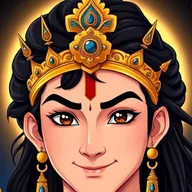
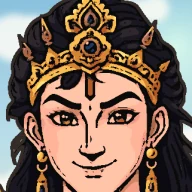
Comic-inked portraits on painted skies, comic ink layer, no navy
- Character portraits redrawn in a comic style: cel-shaded flat colour and
  ink lines, cut out with an anime segmentation model and set against a
  hand-painted summer sky with clouds instead of the dark navy backdrop.
  Face crops regenerated to match.
- Comic ink layer across the interface: inked outlines and hard offset
  shadows on panels, buttons, tiles, tokens and sheets, halftone dot
  texture, tilted caption headings, and comic lettering for titles, turn
  lines and big buttons.
- Brighter, softer character and Divine cities colours; navy removed from
  the Leela card, headers and accents.

Claude-Session: https://claude.ai/code/session_01EuwEC6CX5AQVUSZorQLXW2

diff --git a/css/style.css b/css/style.css
@@ -24,7 +24,9 @@
   --river: #4F9FC4;
   --river-soft: #D6ECF6;
   --clay: #C8573C;
-  --night: #2C3A6B;
+  --night: #4D9DE0;
+  --outline: #2E2A26;
+  --dots: radial-gradient(rgba(46, 42, 38, .13) 1.1px, transparent 1.5px);
   --gold: #E9B949;
   --display: 'Yatra One', 'Georgia', serif;
   --body: 'Baloo 2', 'Nunito', 'Segoe UI', system-ui, sans-serif;
@@ -342,7 +344,7 @@ input:focus { outline: none; border-color: var(--river); box-shadow: 0 0 0 4px r
 .lobby-title { font-family: var(--display); font-weight: 400; color: var(--ink); font-size: 2.2rem; margin: .25em 0 .1em; }
 .room { display: flex; align-items: center; gap: 10px 12px; flex-wrap: wrap; margin: 8px 0; padding: 10px 14px; border-radius: 18px; background: var(--river-soft); }
 .room > span { font-weight: 700; color: var(--ink-soft); }
-.room strong { font-family: var(--display); font-size: 1.9rem; color: var(--night); letter-spacing: .16em; font-weight: 400; }
+.room strong { font-family: var(--display); font-size: 1.9rem; color: var(--ink); letter-spacing: .16em; font-weight: 400; }
 .status-line { color: var(--ink-soft); margin: .4em 0 0; font-weight: 600; }
 .seats { list-style: none; padding: 0; margin: 0 0 18px; display: grid; gap: 12px; }
 .seat {
@@ -548,7 +550,7 @@ input:focus { outline: none; border-color: var(--river); box-shadow: 0 0 0 4px r
 .tile .pr { font-size: .92em; color: var(--ink-soft); font-variant-numeric: tabular-nums; font-weight: 600; }
 .tile .ico { width: 2.6em; height: 2.6em; color: var(--ink-soft); flex: none; }
 .tile.leela { background: #F1F4FF; }
-.tile.leela .ico { color: #4A5DC0; }
+.tile.leela .ico { color: #5B7FD6; }
 .tile.ashirvad { background: #FFF1F5; }
 .tile.ashirvad .ico { color: #C8467A; }
 .tile.tax .ico { color: var(--clay); }
@@ -596,7 +598,7 @@ input:focus { outline: none; border-color: var(--river); box-shadow: 0 0 0 4px r
 .tile.corner.rest { background: linear-gradient(160deg, #FFFBEA, #F7E6B5); }
 .tile.corner.rest .ico { color: #B8892E; }
 .tile.corner.dice { background: linear-gradient(160deg, #F1F4FF, #D9DFF7); }
-.tile.corner.dice .ico { color: #4A5DC0; }
+.tile.corner.dice .ico { color: #5B7FD6; }
 
 /* tokens: character heads that hop from tile to tile */
 .tok-layer { position: absolute; inset: 0; pointer-events: none; z-index: 5; }
@@ -854,7 +856,7 @@ body:not(.online) .online-only { display: none !important; }
 .cp-burst span { font-family: var(--comic); font-size: 1.75rem; letter-spacing: .04em; line-height: 1; -webkit-text-stroke: 1px var(--ink); white-space: nowrap; color: #FFFFFF; text-shadow: 2px 2px 0 var(--clay); }
 .k-mini .cp-burst span { font-size: 1.4rem; }
 .k-jail .cp-burst, .k-tax .cp-burst, .k-rent .cp-burst { background: linear-gradient(180deg, #BFE0F2, #7DB9E3); }
-.k-jail .cp-burst span, .k-tax .cp-burst span, .k-rent .cp-burst span { text-shadow: 2px 2px 0 var(--night); }
+.k-jail .cp-burst span, .k-tax .cp-burst span, .k-rent .cp-burst span { text-shadow: 2px 2px 0 #2F6FA8; }
 @keyframes burst { from { transform: rotate(-30deg) scale(0); } }
 .cp-cast { position: relative; display: flex; justify-content: space-between; align-items: flex-end; gap: 8px; }
 .cp-actor { display: flex; align-items: flex-end; gap: 6px; flex: 1; min-width: 0; }
@@ -884,9 +886,9 @@ body:not(.online) .online-only { display: none !important; }
 .cp-actor.right .bubble::before { left: auto; right: -6px; border-right: 6px solid transparent; border-left: 7px solid #fff; }
 @keyframes bubble { from { transform: scale(.4); opacity: 0; } }
 .cp-text { position: relative; margin: 10px 0 0; text-align: center; font-weight: 800; font-size: 1.02rem; }
-.cp-card { position: relative; display: flex; gap: 10px; align-items: center; background: linear-gradient(140deg, #3C4F8F, var(--night)); color: #FFFBF0; border: 3px solid var(--ink); border-radius: 16px; padding: 10px 12px; margin: 6px 0 10px; animation: flip .5s ease-out .1s both; transform-origin: top; }
+.cp-card { position: relative; display: flex; gap: 10px; align-items: center; background: linear-gradient(140deg, #DCEBFF, #BFDDF7); color: var(--ink); border: 3px solid var(--ink); border-radius: 16px; padding: 10px 12px; margin: 6px 0 10px; animation: flip .5s ease-out .1s both; transform-origin: top; }
 .k-ashirvad .cp-card { background: linear-gradient(140deg, #FFF1F5, #FBD3DF); color: var(--ink); }
-.cp-card .ico { width: 40px; height: 40px; flex: none; color: var(--sun); }
+.cp-card .ico { width: 40px; height: 40px; flex: none; color: #3E7CC4; }
 .k-ashirvad .cp-card .ico { color: #C8467A; }
 .cp-card p { margin: 0; font-weight: 700; font-size: .96rem; line-height: 1.3; }
 @keyframes flip { from { transform: perspective(500px) rotateX(-90deg); opacity: 0; } }
@@ -1089,7 +1091,7 @@ p.test-res.bad { color: var(--clay); }
 .bdg.got .bdg-ico { color: #fff; background: radial-gradient(circle at 35% 30%, #FFE6A0, var(--sun) 50%, var(--sun-deep)); box-shadow: 0 0 0 3px #fff, 0 0 0 5px var(--sun-2); }
 .bdg.got b { color: var(--ink); }
 
-.rules h3 { font-family: var(--display); font-weight: 400; margin: 1em 0 .2em; font-size: 1.25rem; color: var(--night); }
+.rules h3 { font-family: var(--display); font-weight: 400; margin: 1em 0 .2em; font-size: 1.25rem; color: var(--clay); }
 .rules ul { padding-left: 1.2em; margin: .3em 0; }
 .rules li { margin: .25em 0; }
 
@@ -1101,6 +1103,132 @@ p.test-res.bad { color: var(--clay); }
   font-weight: 700; animation: rise .25s cubic-bezier(.2, 1.3, .4, 1); text-align: center;
 }
 .toast.err { border-color: var(--rose); }
+
+
+/* ---------- comic ink layer ----------
+   Inked outlines, hard offset shadows, halftone dots and comic lettering,
+   laid over the painted world. */
+.card, .panel, .hero-card, .seat, .home-panel {
+  border: 3px solid var(--outline);
+  box-shadow: 6px 6px 0 var(--outline), 0 18px 34px rgba(60, 80, 110, .18);
+  border-radius: 22px;
+}
+.panel { box-shadow: 5px 5px 0 var(--outline); border-radius: 20px; }
+.panel { background-image: var(--grain); }
+.panel h3, .sec {
+  display: inline-flex; align-self: flex-start;
+  font-family: var(--comic); font-size: 1.25rem; letter-spacing: .06em; line-height: 1;
+  padding: 5px 12px 4px; margin: -24px 0 10px -6px;
+  background: var(--sun-2); border: 2.5px solid var(--outline); border-radius: 6px;
+  box-shadow: 3px 3px 0 var(--outline); transform: rotate(-2deg);
+}
+.panel h3::before { display: none; }
+.panel { margin-top: 14px; }
+.side .panel:first-child { margin-top: 12px; }
+.sec { margin: 1.2em 0 .7em; }
+
+.btn { border: 2.5px solid var(--outline); box-shadow: 0 4px 0 var(--outline); }
+.btn:hover { border-color: var(--outline); }
+.btn:active { box-shadow: 0 1px 0 var(--outline); }
+.btn.primary, .btn.ink.primary {
+  border-color: var(--outline); box-shadow: 0 4px 0 var(--outline), 0 10px 20px rgba(221, 149, 49, .28);
+  font-family: var(--comic); font-weight: 400; letter-spacing: .06em; font-size: 1.15em; text-shadow: 1.5px 1.5px 0 #FFF4D0;
+}
+.btn.primary:active, .btn.ink.primary:active { box-shadow: 0 1px 0 var(--outline); }
+.btn.big .btn-txt b { font-family: var(--comic); font-weight: 400; letter-spacing: .06em; font-size: 1.6rem; }
+.btn.big { font-family: var(--body); font-size: 1rem; }
+.btn.danger, .btn.danger-ink { border-color: var(--outline); background: #FFEFF3; }
+.btn.power { border-color: var(--outline); box-shadow: 0 4px 0 var(--outline); }
+.btn.build-btn { border-color: var(--outline); box-shadow: 0 4px 0 var(--outline); }
+.btn.resume { border-color: var(--outline); box-shadow: 0 4px 0 var(--outline); }
+.btn.soft { border-color: var(--outline); background: var(--cream); }
+.tile-btn { background-image: var(--dots); background-size: 9px 9px; }
+.hero-nav { border: 2.5px solid var(--outline); box-shadow: 0 3px 0 var(--outline); color: var(--ink); }
+#btn-quick { animation: none; }
+input { border: 2.5px solid var(--outline); }
+input:focus { border-color: var(--outline); box-shadow: 0 0 0 4px rgba(255, 203, 92, .55); }
+
+.logo {
+  color: var(--sun-2);
+  -webkit-text-stroke: .06em var(--outline); paint-order: stroke fill;
+  text-shadow: .06em .07em 0 var(--outline), .1em .14em 0 rgba(46, 42, 38, .18);
+}
+.logo.small { color: var(--sun-2); -webkit-text-stroke: 1.5px var(--outline); text-shadow: 2px 2px 0 var(--outline); }
+.centre .logo { -webkit-text-stroke: .5cqw var(--outline); text-shadow: .6cqw .7cqw 0 var(--outline); }
+.verse { color: var(--ink); background: rgba(255, 255, 255, .7); display: inline-block; padding: 1px 12px; border-radius: 99px; border: 2px solid var(--outline); font-size: .85rem; }
+.lede { color: var(--ink); font-weight: 600; text-shadow: 0 1px 0 rgba(255, 255, 255, .7); }
+
+.hero-card { background-image: radial-gradient(circle at 18% 50%, color-mix(in srgb, var(--c) 26%, transparent), transparent 55%), var(--dots), var(--grain); background-size: auto, 10px 10px, auto; }
+.hero-frame { background: var(--outline); padding: 4px; box-shadow: 5px 5px 0 color-mix(in srgb, var(--c) 70%, var(--outline)); }
+.hero-frame::after { display: none; }
+.hero-txt > b { font-family: var(--comic); letter-spacing: .05em; font-size: 2.6rem; color: var(--ink); text-shadow: 3px 3px 0 color-mix(in srgb, var(--c) 45%, #FFFFFF); }
+.hero-power { border: 2px solid var(--outline); background: #FFFFFF; box-shadow: 3px 3px 0 var(--outline); }
+
+.face { box-shadow: 0 0 0 2.5px var(--outline), 0 0 0 5px var(--c), 0 0 0 7px var(--outline); }
+.char-opt[aria-checked="true"] .face { box-shadow: 0 0 0 2.5px var(--outline), 0 0 0 6px var(--c), 0 0 0 8.5px var(--outline), 4px 6px 0 9px rgba(46, 42, 38, .25); }
+.char-opt > span:last-child { background: rgba(255, 255, 255, .7); padding: 0 6px; border-radius: 6px; border: 2px solid transparent; }
+.char-opt[aria-checked="true"] { background: transparent; }
+.char-opt[aria-checked="true"] > span:last-child { background: var(--sun-2); border-color: var(--outline); }
+.profile-chip, .chip, .xp-chip { border: 2.5px solid var(--outline); box-shadow: 3px 3px 0 var(--outline); }
+.chip.now { border-color: var(--outline); background: var(--sun-2); }
+.pl { border-radius: 14px; }
+.pl.now { border: 2.5px solid var(--outline); background: #FFF3C4; box-shadow: 3px 3px 0 var(--outline); }
+.realm-row { border: 2px solid var(--outline); box-shadow: 2px 2px 0 var(--outline); }
+.pc-badges { border-left-color: var(--outline); }
+.room { border: 2.5px solid var(--outline); background: #E3F2FB; box-shadow: 3px 3px 0 var(--outline); }
+
+.topbar { border-bottom: 3px solid var(--outline); background: rgba(255, 251, 240, .94); box-shadow: 0 4px 0 rgba(46, 42, 38, .15); }
+
+.board { box-shadow: 0 0 0 .45cqw var(--outline), .9cqw 1cqw 0 .45cqw var(--outline), 0 2cqw 4cqw rgba(50, 70, 100, .3); }
+.tile { box-shadow: inset 0 0 0 .2cqw var(--outline); border-radius: .5cqw; }
+.tile:hover { box-shadow: inset 0 0 0 .2cqw var(--outline), .5cqw .6cqw 0 var(--outline); }
+.tile .band { border-bottom: .2cqw solid var(--outline); border-top: .2cqw solid var(--outline); }
+.tile.s-left .band, .tile.s-right .band { border: 0; border-left: .2cqw solid var(--outline); border-right: .2cqw solid var(--outline); }
+.tile.corner { box-shadow: inset 0 0 0 .25cqw var(--outline); background-image: var(--dots); background-size: 1.2cqw 1.2cqw; }
+.tile.corner .nm { font-family: var(--comic); letter-spacing: .03em; font-size: 1.3em; overflow-wrap: normal; white-space: nowrap; }
+.owner-mark { border-color: var(--outline); border-width: .2em; box-shadow: .12em .14em 0 var(--outline); }
+.centre { box-shadow: inset 0 0 0 .4cqw var(--outline); }
+.centre .round { border: .2cqw solid var(--outline); font-family: var(--comic); letter-spacing: .08em; font-weight: 400; }
+.centre-ui { border: .35cqw solid var(--outline); box-shadow: .8cqw .8cqw 0 var(--outline); background-image: var(--dots); background-size: 1.1cqw 1.1cqw; background-color: rgba(255, 251, 240, .96); }
+.turn-line { font-family: var(--comic); font-weight: 400; letter-spacing: .05em; font-size: 2.5cqw; }
+.face-d { box-shadow: inset 0 0 0 .25cqw var(--outline), inset 0 -.5cqw 1cqw rgba(170, 130, 70, .2); }
+.token .tk-in { border-color: var(--outline); box-shadow: 0 0 0 .3cqw var(--c), 0 0 0 .55cqw var(--outline), .35cqw .45cqw 0 .55cqw rgba(46, 42, 38, .45); }
+.token.cur .tk-in { box-shadow: 0 0 0 .3cqw var(--c), 0 0 0 .55cqw var(--outline), 0 0 0 1.1cqw rgba(255, 203, 92, .7); }
+
+.dock { border-top: 3px solid var(--outline); box-shadow: 0 -5px 0 rgba(46, 42, 38, .2); }
+.dock-head b { font-family: var(--comic); font-weight: 400; letter-spacing: .05em; font-size: 1.25rem; }
+.feed { border: 2.5px solid var(--outline); box-shadow: 3px 3px 0 var(--outline); }
+
+/* guide tips read as speech bubbles */
+.coach { border: 3px solid var(--outline); box-shadow: 6px 6px 0 var(--outline); overflow: visible; }
+.coach-body b { font-family: var(--comic); font-weight: 400; letter-spacing: .05em; font-size: 1.3rem; }
+.coach .face { margin-top: 2px; }
+
+.sheet { border: 3px solid var(--outline); box-shadow: 8px 8px 0 var(--outline), 0 30px 60px rgba(40, 60, 90, .3); }
+.sheet h2 { font-family: var(--comic); letter-spacing: .05em; font-size: 2.1rem; }
+.sheet-head { border-bottom: 3px solid var(--outline); }
+.sheet-head.plain { background: linear-gradient(120deg, #A9D6F0, #D3EBF8 60%, #FFF0D6); background-image: var(--dots), linear-gradient(120deg, #A9D6F0, #D3EBF8 60%, #FFF0D6); background-size: 10px 10px, auto; }
+.char-head { background-image: var(--dots), linear-gradient(120deg, var(--c), color-mix(in srgb, var(--c) 45%, #FFFFFF)); background-size: 10px 10px, auto; }
+.char-head h2 { color: #FFFFFF; -webkit-text-stroke: 1.5px var(--outline); paint-order: stroke fill; text-shadow: 3px 3px 0 var(--outline); }
+.char-hero { border: 3px solid var(--outline); box-shadow: 4px 4px 0 var(--outline); }
+.trade-col, .stat-row > div, .reward-box, .settings fieldset { border: 2.5px solid var(--outline); box-shadow: 3px 3px 0 var(--outline); }
+.who { border: 2.5px solid var(--outline); }
+.who.on { background: var(--sun-2); }
+.bdg.got { border: 2.5px solid var(--outline); box-shadow: 3px 3px 0 var(--outline); }
+.win-hero { border: 4px solid var(--outline); box-shadow: 6px 6px 0 var(--outline); }
+.standings li.gold { border: 2px solid var(--outline); }
+.lu-card, .badge-pop { border: 3px solid var(--outline); box-shadow: 6px 6px 0 var(--outline); }
+.lu-num { -webkit-text-stroke: 2px var(--outline); paint-order: stroke fill; text-shadow: 5px 5px 0 var(--outline); color: var(--sun); }
+.xp-pop { border-color: var(--outline); font-family: var(--comic); letter-spacing: .06em; font-weight: 400; font-size: 1.2rem; }
+.toast { border: 2.5px solid var(--outline); box-shadow: 4px 4px 0 var(--outline); border-radius: 18px; }
+.toast.err { border-color: var(--outline); background: #FFEFF3; }
+.seg { border: 2px solid var(--outline); }
+.seg-btn[aria-pressed="true"] { background: var(--sun-2); color: var(--ink); box-shadow: none; }
+.modal-back { background: rgba(255, 236, 200, .35); }
+.seat-edit { border: 2px solid var(--outline); box-shadow: none; }
+.lobby-title { font-family: var(--comic); letter-spacing: .05em; font-size: 2.5rem; }
+.turn-banner { border: 3px solid var(--outline); box-shadow: 5px 5px 0 var(--outline); }
+.turn-banner .tb-face { border-color: var(--outline); }
 
 /* ---------- responsive ---------- */
 

diff --git a/js/art.js b/js/art.js
@@ -161,71 +161,6 @@ export function chakra(attrs = 'class="chakra"') {
   </svg>`;
 }
 
-// The board centrepiece: a Pichwai-style lotus pond and mandala.
-let artSeq = 0;
-export function centreArt() {
-  const id = `ca${++artSeq}`;
-  const petals = (n, r, len, w, color, op) => Array.from({ length: n }, (_, k) => {
-    const a = (360 / n) * k;
-    return `<path transform="rotate(${a} 300 300)" d="M300 ${300 - r} C ${300 + w} ${300 - r - len * 0.4}, ${300 + w * 0.6} ${300 - r - len * 0.9}, 300 ${300 - r - len} C ${300 - w * 0.6} ${300 - r - len * 0.9}, ${300 - w} ${300 - r - len * 0.4}, 300 ${300 - r} Z" fill="${color}" opacity="${op}"/>`;
-  }).join('');
-  const lotusFlower = (x, y, s) => `<g transform="translate(${x} ${y}) scale(${s})">
-      <path d="M0 0 C -26 -4, -38 -18, -40 -30 C -24 -28, -10 -16, 0 0 Z" fill="#F4A7BB"/>
-      <path d="M0 0 C 26 -4, 38 -18, 40 -30 C 24 -28, 10 -16, 0 0 Z" fill="#F4A7BB"/>
-      <path d="M0 0 C -16 -10, -22 -32, -14 -48 C -4 -38, 2 -18, 0 0 Z" fill="#EE87A3"/>
-      <path d="M0 0 C 16 -10, 22 -32, 14 -48 C 4 -38, -2 -18, 0 0 Z" fill="#EE87A3"/>
-      <path d="M0 0 C -10 -16, -10 -40, 0 -58 C 10 -40, 10 -16, 0 0 Z" fill="#E86A8E"/>
-    </g>`;
-  const pad = (x, y, r) => `<g transform="translate(${x} ${y})"><ellipse rx="${r}" ry="${r * 0.36}" fill="#1E7C6B"/><path d="M0 0 L ${r * 0.9} ${-r * 0.12}" stroke="#16594D" stroke-width="2"/></g>`;
-  return `<svg class="centre-art" viewBox="0 0 600 600" preserveAspectRatio="xMidYMid slice" aria-hidden="true">
-    <defs>
-      <radialGradient id="${id}-glow" cx="50%" cy="46%" r="55%">
-        <stop offset="0" stop-color="#34479A"/>
-        <stop offset=".7" stop-color="#1B2758"/>
-        <stop offset="1" stop-color="#141D45"/>
-      </radialGradient>
-      <pattern id="${id}-stars" width="40" height="40" patternUnits="userSpaceOnUse">
-        <circle cx="6" cy="8" r="1" fill="#E9C46A" opacity=".35"/>
-        <circle cx="26" cy="28" r=".8" fill="#FBF3E0" opacity=".25"/>
-      </pattern>
-    </defs>
-    <rect width="600" height="600" fill="url(#${id}-glow)"/>
-    <rect width="600" height="600" fill="url(#${id}-stars)"/>
-    <g opacity=".22">
-      ${petals(16, 150, 70, 26, '#E9C46A', 0.5)}
-      ${petals(16, 150, 52, 18, '#FBF3E0', 0.25)}
-    </g>
-    <g fill="none" stroke="#E9C46A" opacity=".35">
-      <circle cx="300" cy="300" r="148" stroke-width="1.5"/>
-      <circle cx="300" cy="300" r="232" stroke-width="1" stroke-dasharray="2 6"/>
-    </g>
-    <g opacity=".9">
-      <path d="M0 520 C 120 498, 220 540, 320 520 S 520 500, 600 518 V 600 H 0 Z" fill="#17496A" opacity=".75"/>
-      <path d="M0 548 C 140 530, 240 566, 360 546 S 540 536, 600 548 V 600 H 0 Z" fill="#123B57"/>
-      <g stroke="#7FB8C9" stroke-width="1.4" opacity=".5" fill="none">
-        <path d="M40 560 q 14 -6 28 0 t 28 0"/><path d="M430 572 q 14 -6 28 0 t 28 0"/><path d="M250 586 q 14 -6 28 0 t 28 0"/>
-      </g>
-      ${pad(70, 540, 34)}${pad(520, 552, 30)}${pad(180, 574, 22)}${pad(440, 584, 20)}
-      ${lotusFlower(92, 536, 0.9)}${lotusFlower(500, 548, 0.75)}${lotusFlower(198, 570, 0.5)}
-    </g>
-    <g transform="translate(470 40) rotate(28)" opacity=".85">
-      <path d="M0 200 C 6 140, 4 80, 0 0" stroke="#FBF3E0" stroke-width="2" fill="none"/>
-      ${Array.from({ length: 18 }, (_, k) => `<path d="M0 ${30 + k * 9} q ${-26 + k * 0.6} ${-4} ${-34 + k} ${-16}" stroke="#2E9C7E" stroke-width="1.2" fill="none" opacity=".8"/><path d="M0 ${30 + k * 9} q ${26 - k * 0.6} ${-4} ${34 - k} ${-16}" stroke="#2E9C7E" stroke-width="1.2" fill="none" opacity=".8"/>`).join('')}
-      <ellipse cx="0" cy="18" rx="22" ry="30" fill="#1FA38D"/>
-      <ellipse cx="0" cy="21" rx="14" ry="20" fill="#E9C46A"/>
-      <ellipse cx="0" cy="23" rx="8.5" ry="12.5" fill="#2B3FA0"/>
-      <ellipse cx="0" cy="24" rx="3.6" ry="5.4" fill="#0F1638"/>
-    </g>
-    <g transform="translate(40 120) rotate(-32)" opacity=".8">
-      <rect x="0" y="0" width="210" height="12" rx="6" fill="#C98A3A"/>
-      <rect x="18" y="0" width="8" height="12" fill="#E9C46A"/><rect x="186" y="0" width="8" height="12" fill="#E9C46A"/>
-      ${[60, 82, 104, 126, 148, 170].map((x) => `<circle cx="${x}" cy="6" r="2.4" fill="#5A3412"/>`).join('')}
-      <path d="M22 12 C 18 30, 26 44, 16 58" stroke="#E86A8E" stroke-width="2" fill="none"/>
-      <circle cx="16" cy="60" r="4" fill="#E86A8E"/>
-    </g>
-  </svg>`;
-}
-
 // Interface icons (stroke, currentColor).
 const UI_ICON = {
   mic: '<rect x="24" y="8" width="16" height="30" rx="8"/><path d="M16 30 C 16 42, 24 48, 32 48 C 40 48, 48 42, 48 30 M32 48 V56 M24 56 H40"/>',

diff --git a/js/data.js b/js/data.js
@@ -14,7 +14,7 @@ export const GROUPS = {
   red:    { name: 'Western kingdoms', color: '#B8323F', house: 150 },
   yellow: { name: 'Kuru lands', color: '#D9AE2B', house: 150 },
   green:  { name: 'Braj', color: '#3E9B6B', house: 200 },
-  indigo: { name: 'Divine cities', color: '#2B3A8C', house: 200 },
+  indigo: { name: 'Divine cities', color: '#7A6FD8', house: 200 },
 };
 
 const realm = (name, group, price, rent, blurb) => ({ type: 'realm', name, group, price, rent, blurb });
@@ -112,35 +112,35 @@ export const ASHIRVAD = [
 // Each character has one divine power, usable once per game.
 export const CHARACTERS = {
   krishna: {
-    name: 'Krishna', title: 'Keeper of the flute', color: '#2F55B4', emblem: 'feather',
+    name: 'Krishna', title: 'Keeper of the flute', color: '#4D9DE0', emblem: 'feather',
     power: 'Sudarshana', powerText: 'Choose your dice total (2 to 12) instead of rolling.',
   },
   balarama: {
-    name: 'Balarama', title: 'Bearer of the plough', color: '#4F7A8C', emblem: 'plough',
+    name: 'Balarama', title: 'Bearer of the plough', color: '#4FB0A5', emblem: 'plough',
     power: 'Halayudha', powerText: 'Your next temple is built for free.',
   },
   arjuna: {
-    name: 'Arjuna', title: 'Archer of Gandiva', color: '#138A72', emblem: 'bow',
+    name: 'Arjuna', title: 'Archer of Gandiva', color: '#3DAA6E', emblem: 'bow',
     power: 'Gandiva', powerText: 'The next rent you owe is waived.',
   },
   bhima: {
-    name: 'Bhima', title: 'Son of the wind', color: '#8C4A2F', emblem: 'mace',
+    name: 'Bhima', title: 'Son of the wind', color: '#D9773F', emblem: 'mace',
     power: 'Vayu\'s speed', powerText: 'Your next roll moves you double the distance.',
   },
   draupadi: {
-    name: 'Draupadi', title: 'Born of the fire', color: '#C2185B', emblem: 'lotus',
+    name: 'Draupadi', title: 'Born of the fire', color: '#E8618C', emblem: 'lotus',
     power: 'Akshaya Patra', powerText: 'Collect 200 from the bank right away.',
   },
   karna: {
-    name: 'Karna', title: 'Son of Surya', color: '#C98A00', emblem: 'sun',
+    name: 'Karna', title: 'Son of Surya', color: '#F0A92E', emblem: 'sun',
     power: 'Kavacha', powerText: 'Your next tax or card payment to the bank is waived.',
   },
   bhishma: {
-    name: 'Bhishma', title: 'Keeper of the vow', color: '#6D5BA8', emblem: 'conch',
+    name: 'Bhishma', title: 'Keeper of the vow', color: '#9B7FD6', emblem: 'conch',
     power: 'Iccha Mrityu', powerText: 'Walk out of Vanavas now, or ignore the next sentence to it.',
   },
   hanuman: {
-    name: 'Hanuman', title: 'Bannered on Arjuna\'s chariot', color: '#D9531E', emblem: 'mountain',
+    name: 'Hanuman', title: 'Bannered on Arjuna\'s chariot', color: '#E8553A', emblem: 'mountain',
     power: 'Great leap', powerText: 'Leap to the next Tirtha before you roll.',
   },
 };

diff --git a/README.md b/README.md
@@ -13,11 +13,11 @@ It is designed for every screen: a two-column table on desktops, a stacked layou
 
 ## Made to feel like a game
 
-- **A hand-painted world**: a summer sky with drifting clouds, rolling hills and floating motes of light, cream paper panels, and a river valley with a hill temple at the heart of the board.
+- **A hand-painted world**: a summer sky with drifting clouds, rolling hills and floating motes of light, cream paper panels with inked comic outlines, halftone dots and comic lettering, and a river valley with a hill temple at the heart of the board.
 - **One tap to play**: Quick play starts you against two computer rivals straight from the start screen. Pick a character from the showcase, or use Custom game for friends on one device.
 - **Progress and badges**: earn XP for claiming realms, completing sets, building, collecting rent and finishing games. Level up through the ranks from Shishya to Chakravartin and unlock 15 badges, all kept on your device. The standings screen shows what you earned, with a one-tap rematch.
 - **A friendly guide**: on your first games, your character explains each new moment (rolling, claiming, auctions, building, debts) once. Tips can be switched off in the menu.
-- **Divine characters**: each character has a painted anime portrait. Portraits breathe, catch a sweep of divine light, and react with layered effects: sparkles when claiming land, a blue rain when paying rent, comic shock lines when sent into exile.
+- **Divine characters**: each character has a comic-inked anime portrait set against a painted summer sky. Portraits breathe, catch a sweep of divine light, and react with layered effects: sparkles when claiming land, a blue rain when paying rent, comic shock lines when sent into exile.
 - **Comic panels**: rent, exile, full sets, cards, trades and victories pop up as comic panels with speech bubbles in each character's voice and bold sound-effect bursts.
 - **Motion**: 3D dice tumble and settle, tokens hop tile by tile with a puff of dust, gold floats up as it changes hands, owner seals stamp onto claimed land, temples rise, and petals fall when someone completes a set or wins. A Build button appears when you can raise temples.
 - **Your pace**: choose Relaxed, Normal or Fast game speed from the menu. Reduced-motion settings are respected.
